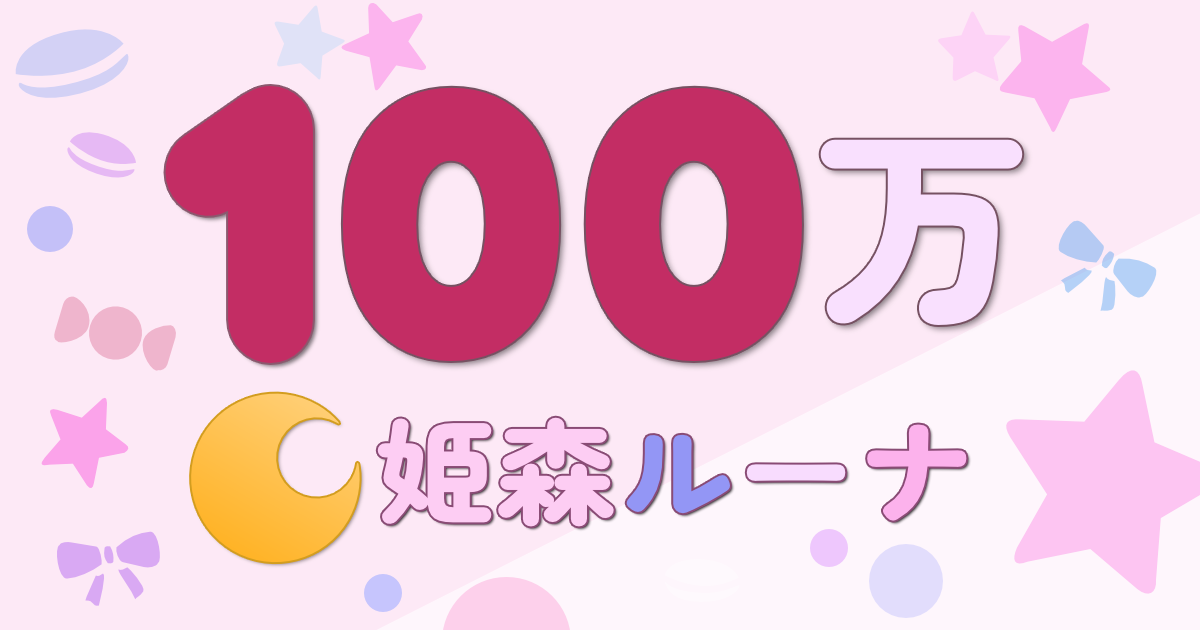
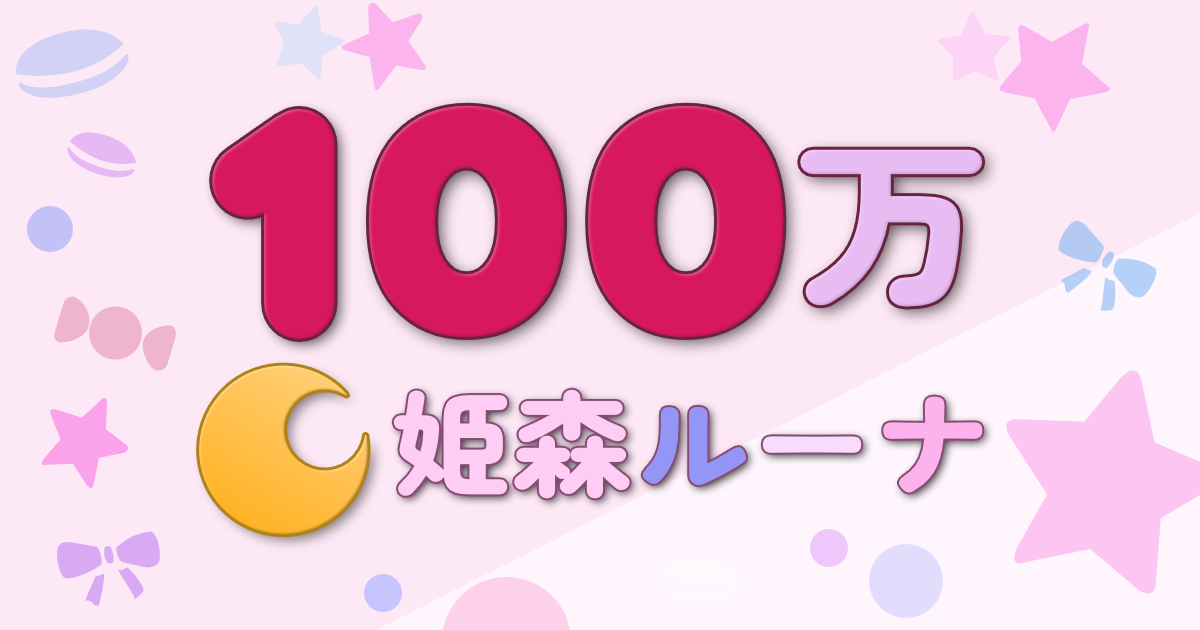
Posts counter, smart map resizing (thanks to don for investigating), CSS tweaks

Changed region(s): [[0.1233, 0.1206, 0.8633, 0.9048], [0.555, 0.2413, 0.6167, 0.4524], [0.5242, 0.3016, 0.555, 0.3921]]

diff --git a/src/components/providers/layout.tsx b/src/components/providers/layout.tsx
@@ -1,35 +1,30 @@
 import { createContext, useEffect, useState } from "react";
 import debounce from "lodash.debounce";
 
-enum Orientation {
-  Portrait = 1,
-  Landscape,
-}
+type Size = { width: number; height: number };
 
-export const LayoutContext = createContext<Orientation | null>(null);
+export const LayoutContext = createContext<Size | null>(null);
 
-export function isPortrait(orientation: Orientation | null): boolean {
-  return orientation! === Orientation.Portrait;
+export function isPortrait(size: Size | null): boolean {
+  return size!.width < 720;
 }
 
 export const LayoutProvider = (props: React.PropsWithChildren<{}>) => {
-  function calculate() {
-    return window.innerWidth < 720
-      ? Orientation.Portrait
-      : Orientation.Landscape;
+  function getSize() {
+    return { width: window.innerWidth, height: window.innerHeight };
   }
 
-  const [orientation, setOrientation] = useState<Orientation>(calculate());
+  const [size, setSize] = useState<Size>(getSize());
 
   useEffect(() => {
     let callback: any;
     if (window.navigator.userAgent.includes("Mobile")) {
       callback = () => {
-        setOrientation(calculate());
+        setSize(getSize());
       };
     } else {
       callback = debounce(() => {
-        setOrientation(calculate());
+        setSize(getSize());
       }, 15);
     }
 
@@ -39,12 +34,8 @@ export const LayoutProvider = (props: React.PropsWithChildren<{}>) => {
   }, []);
 
   useEffect(() => {
-    document.body.className = isPortrait(orientation)
-      ? "portrait"
-      : "landscape";
-  }, [orientation]);
+    document.body.className = isPortrait(size) ? "portrait" : "landscape";
+  }, [size]);
 
-  return (
-    <LayoutContext.Provider value={orientation} children={props.children} />
-  );
+  return <LayoutContext.Provider value={size} children={props.children} />;
 };

diff --git a/src/components/map/map.tsx b/src/components/map/map.tsx
@@ -7,6 +7,7 @@ import {
   Marker,
   Tooltip,
   AttributionControl,
+  useMap,
 } from "react-leaflet";
 import "leaflet/dist/leaflet.css";
 
@@ -67,7 +68,7 @@ function createMarkers(
                 top:
                   cardDiv.offsetTop -
                   cardDiv.parentElement!.offsetTop +
-                  (isPortrait ? 150 : -110),
+                  (isPortrait ? 150 : -30),
                 behavior: "smooth",
               });
             },
@@ -86,6 +87,22 @@ function createMarkers(
     });
 }
 
+function ZoomSetter() {
+  const map = useMap();
+
+  let rect = map.getContainer().getBoundingClientRect();
+
+  let newZoom = 0.0;
+  if (rect.height > 250) {
+    newZoom = Math.log2(Math.max(rect.width, rect.height) / 250);
+  }
+
+  map.setMinZoom(newZoom);
+  map.setZoom(newZoom);
+
+  return null;
+}
+
 export const Map = (props: MapProps) => {
   const mapRef: React.MutableRefObject<L.Map | null> = React.useRef(null);
   const orientation = useContext(LayoutContext);
@@ -101,12 +118,13 @@ export const Map = (props: MapProps) => {
         isPortrait(orientation) ? styles.header : styles.standalone,
       ].join(" ")}
       zoom={1}
-      center={[30, 0]}
-      zoomSnap={0.5}
+      center={[20, 0]}
+      zoomSnap={0.1}
       maxZoom={7}
+      maxBoundsViscosity={1}
       maxBounds={[
-        [-1000, -Infinity],
-        [1200, Infinity],
+        [-90, -180],
+        [90, 180],
       ]}
       attributionControl={false}
       inertia={true}
@@ -126,6 +144,7 @@ export const Map = (props: MapProps) => {
         attribution='&copy; <a href="http://www.openstreetmap.org/copyright">OpenStreetMap</a>'
       />
       {createMarkers(props, mapRef, isPortrait(orientation))}
+      <ZoomSetter></ZoomSetter>
     </MapContainer>
   );
 };

diff --git a/src/components/cards/card.module.css b/src/components/cards/card.module.css
@@ -1,7 +1,7 @@
 .card {
   margin-right: 2px;
-  margin-bottom: 1.5em;
-  padding: 10px 15px 10px 10px;
+  margin-bottom: 30px;
+  padding: 10px 15px 20px 10px;
   background: #ffeff6;
   box-shadow: 2px 2px 0 rgba(0, 0, 0, 0.1);
 
@@ -19,6 +19,8 @@
   display: flex;
   align-items: flex-start;
   gap: 10px;
+
+  position: relative;
 }
 
 .pfp {
@@ -61,9 +63,12 @@
   padding: 6px 8px 6px 25px;
   text-decoration: none;
   color: black;
-  font-size: 10px;
+  font-size: 9px;
   font-weight: bold;
   background-color: #c2e7ff;
+
+  font-family: "McLaren", sans-serif;
+  font-weight: 500;
 }
 
 .x_link:visited {
@@ -74,10 +79,14 @@
   text-decoration: none;
 }
 
+.attachments {
+  display: flex;
+  gap: 9px;
+}
+
 .attachment {
   display: inline-block;
-  width: 47%;
-  margin-right: 7px;
+  width: 48.5%;
 }
 
 .attachment .attachmentInner {
@@ -88,6 +97,7 @@
 
 .message {
   white-space: pre-wrap;
+  margin: 20px 0px;
 }
 
 .map_button {
@@ -112,4 +122,23 @@
   -ms-user-select: none;
   user-select: none;
   -webkit-tap-highlight-color: transparent;
+}
+
+.counter {
+  position: absolute;
+  right: 30px;
+  bottom: -11px;
+
+  display: inline-block;
+  font-size: 9px;
+  background-color: hsl(304, 64%, 90%);
+  border: 2px solid hsl(304, 54%, 87%);
+  box-shadow: 2px 2px 0 rgba(0, 0, 0, 0.1);
+
+  border-radius: 10px;
+  color: hsl(304, 54%, 27%);
+  padding: 2px 6px 2px 8px;
+
+  font-family: "McLaren", sans-serif;
+  font-weight: 500;
 }

diff --git a/src/components/header/header.tsx b/src/components/header/header.tsx
@@ -9,7 +9,7 @@ export const Header = () => {
 };
 
 export const CollapsibleHeader = (props: PropsWithChildren<{}>) => {
-  const ANIM_THRESHOLD = 140;
+  const ANIM_THRESHOLD = 130;
 
   const [scrollY, setScrollY] = useState(0.0);
   const orientation = useContext(LayoutContext);
@@ -33,19 +33,17 @@ export const CollapsibleHeader = (props: PropsWithChildren<{}>) => {
   return (
     <>
       <div className={styles.collapsibleHeader}>
-        <div className={styles.logo}>
-          <div
-            className={styles.lunaLogo}
-            style={{ opacity: scrollY > ANIM_THRESHOLD ? 0.0 : 1.0 }}
-          ></div>
-          <div
-            className={styles.collapsedLogo}
-            style={{ opacity: scrollY < ANIM_THRESHOLD ? 0.0 : 1.0 }}
-            onClick={() => {
-              window.scrollTo({ top: 0, behavior: "smooth" });
-            }}
-          ></div>
-        </div>
+        <div
+          className={styles.logo}
+          style={{ opacity: scrollY > ANIM_THRESHOLD ? 0.0 : 1.0 }}
+        ></div>
+        <div
+          className={styles.collapsedLogo}
+          style={{ opacity: scrollY < ANIM_THRESHOLD ? 0.0 : 1.0 }}
+          onClick={() => {
+            window.scrollTo({ top: 0, behavior: "smooth" });
+          }}
+        ></div>
         {props.children}
       </div>
     </>

diff --git a/src/components/cards/card.tsx b/src/components/cards/card.tsx
@@ -12,6 +12,8 @@ import { useTranslation } from "react-i18next";
 
 type CardProps = {
   post: UserPost;
+  index: number;
+  total: number;
   onClick: () => void;
 };
 
@@ -37,7 +39,7 @@ function attachmentsSection(post: UserPost) {
     images.push(attachment_thumb);
   }
 
-  return images;
+  return <div className={styles.attachments}>{images}</div>;
 }
 
 export const Card = React.forwardRef(
@@ -81,9 +83,15 @@ export const Card = React.forwardRef(
       detailsSection = <div style={{ textAlign: "right" }}>{xButton}</div>;
     }
 
+    let countCaption = props.index + 1 + " / " + props.total;
+
     return (
       <div ref={ref} className={styles.card}>
-        <img className={styles.pfp} src={getPfp(props.post)} alt={styles.nickname}/>
+        <img
+          className={styles.pfp}
+          src={getPfp(props.post)}
+          alt={styles.nickname}
+        />
 
         <div className={styles.container}>
           <div className={styles.nickname}>{props.post.nickname}</div>
@@ -93,6 +101,8 @@ export const Card = React.forwardRef(
           <p className={styles.message}>{props.post.message}</p>
 
           {attachmentsSection(props.post)}
+
+          <div className={styles.counter}>{countCaption}</div>
         </div>
       </div>
     );

diff --git a/src/components/header/header.module.css b/src/components/header/header.module.css
@@ -51,7 +51,7 @@
 
 .collapsibleHeader > .logo {
   width: 100%;
-  height: 200px;
+  height: 150px;
   min-width: 110px;
 
   background-image: url("../header/img/congrats_mobile.png"),
@@ -63,40 +63,22 @@
     center 10px,
     center top;
 
-  background-size:
-    85%,
-    contain;
-
-  flex-shrink: 0;
-
-  display: flex;
-  flex-direction: column;
-  justify-content: flex-end;
-  align-items: center;
-}
-
-.collapsibleHeader > .logo > .lunaLogo {
-  width: 125px;
-  height: 35px;
-
-  background-image: url("./img/luna_logo.png");
-  background-size: 125px 35px;
-  background-repeat: no-repeat;
+  background-size: min(85%, 360px), contain;
 
   transition-property: opacity;
   transition-duration: 0.5s;
 }
 
-.collapsibleHeader > .logo > .collapsedLogo {
+.collapsibleHeader > .collapsedLogo {
   width: 100%;
   height: 50px;
-  /* background-color: white; */
 
   background-image: url("./img/collapsed_header_left.png"),
     url("./img/luna_logo.png");
   background-size:
-    100px 50px,
+    105px 50px,
     125px 35px;
+
   background-position:
     bottom left 8px,
     bottom 5px right 8px;

diff --git a/public/index.html b/public/index.html
@@ -28,8 +28,13 @@
     <meta name="twitter:image" content="%PUBLIC_URL%/share_thumb.png" />
 
     <link rel="preconnect" href="https://fonts.googleapis.com" />
+    <link rel="preconnect" href="https://fonts.gstatic.com" crossorigin />
     <link
       href="https://fonts.googleapis.com/css2?family=Nunito:wght@400;500;800&display=swap"
+      rel="stylesheet"
+    />
+    <link
+      href="https://fonts.googleapis.com/css2?family=McLaren&display=swap"
       rel="stylesheet"
     />
   </head>

diff --git a/src/App.tsx b/src/App.tsx
@@ -10,7 +10,7 @@ import { useEffect, useRef, useState, useContext } from "react";
 import { isPortrait, LayoutContext } from "./components/providers/layout";
 
 const query = new URLSearchParams(document.location.search);
-const fixedOrder = query.get('fixed') != null;
+const fixedOrder = query.get("fixed") != null;
 
 export default function App() {
   const mapRef: React.MutableRefObject<L.Map | undefined> = useRef(undefined);

diff --git a/src/components/footer/footer.tsx b/src/components/footer/footer.tsx
@@ -21,7 +21,9 @@ export const Footer = () => {
         className={styles.castle}
         target="_blank"
         rel="noreferrer"
-    >@HimemoriLuna</a>
+      >
+        @HimemoriLuna
+      </a>
       <div className={styles.footerText}>
         <div>
           <Trans i18nKey="footer.text">Text{link}</Trans>

diff --git a/src/components/cards/card_grid.tsx b/src/components/cards/card_grid.tsx
@@ -24,6 +24,8 @@ export const CardGrid = (props: CardGridProps) => {
         ref={cardRef}
         key={"card" + i}
         post={post}
+        index={i}
+        total={props.posts.length}
         onClick={() => {
           if (post.location) {
             let location = post.location!;
